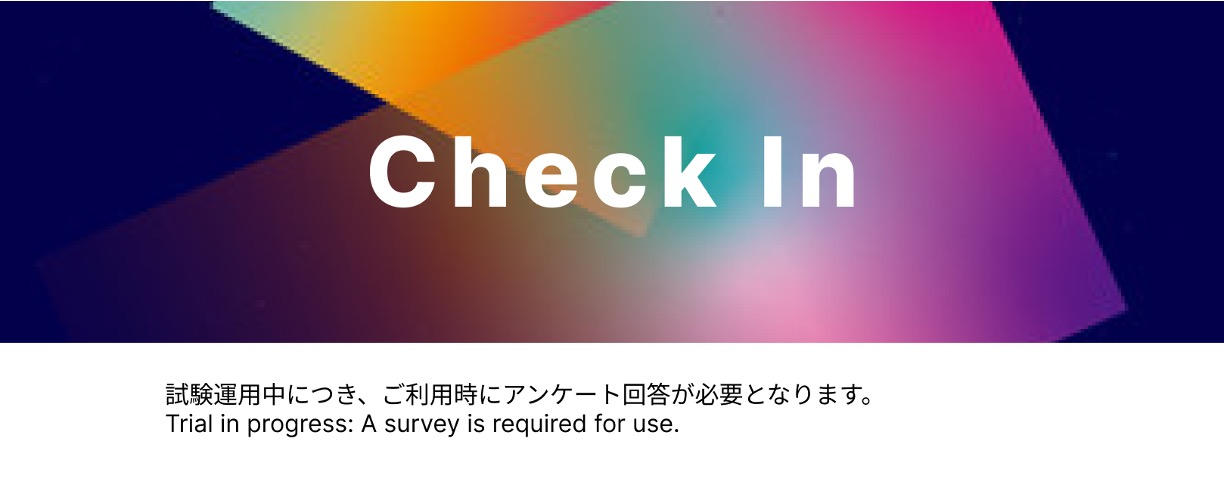
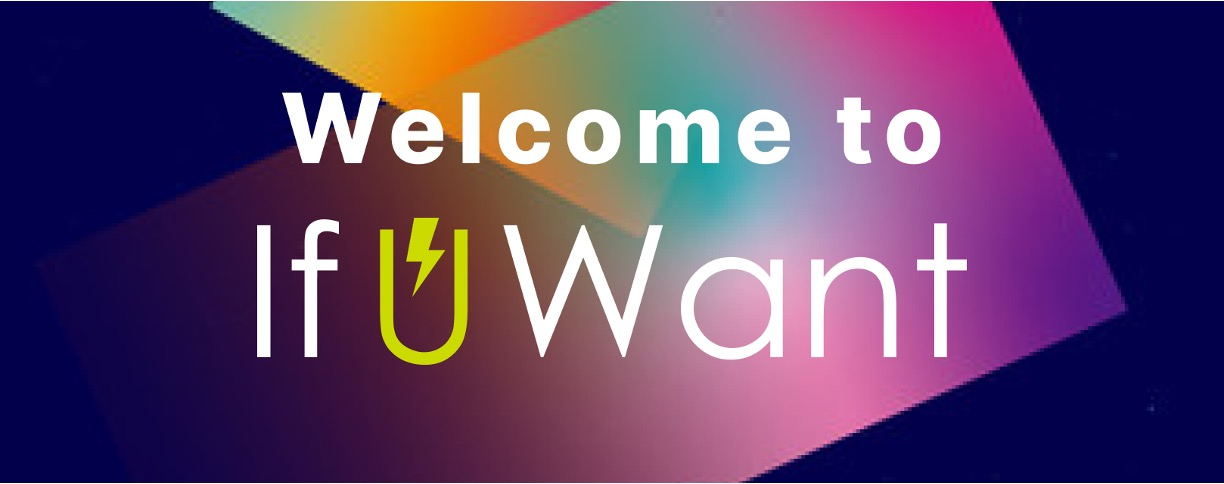
Add files via upload

diff --git a/smb01/smb01.html b/smb01/smb01.html
@@ -1,0 +1,37 @@
+<!DOCTYPE html>
+<html lang="ja">
+<head>
+    <meta charset="UTF-8">
+    <meta name="viewport" content="width=device-width, initial-scale=1.0">
+    <link rel="stylesheet" href="../common.css">
+    <title>If U Wantへようこそ</title>
+</head>
+<body>
+<img src="smb01_files/signin_header.jpeg" alt="サインインヘッダー" class="header-image"><br>
+<div>※試験運用中につき、ご利用時にアンケート回答が必要となります。</div>
+    <div>
+        <form method="GET" action="https://ap-northeast-1p83cuqdfm.auth.ap-northeast-1.amazoncognito.com/signup">
+            <input type="hidden" name="client_id" value="2phcvu943lq7rnv387oa6n8p7m">
+            <input type="hidden" name="lang" value="ja">
+            <input type="hidden" name="redirect_uri" value="https://3mj0ilijc3.execute-api.ap-northeast-1.amazonaws.com/prod/authority">
+            <input type="hidden" name="response_type" value="code">
+            <input type="hidden" name="scope" value="aws.cognito.signin.user.admin email openid phone">
+            <input type="submit" value="新規アカウント作成">
+        </form>
+        <br>
+        <p>すでにアカウントをお持ちの方、ゲストアカウントをお持ちの方は下記をクリックしてください。</p>
+
+        <a href="https://ap-northeast-1p83cuqdfm.auth.ap-northeast-1.amazoncognito.com/login?client_id=2phcvu943lq7rnv387oa6n8p7m&response_type=code&scope=aws.cognito.signin.user.admin+email+openid+phone&redirect_uri=https%3A%2F%2F3mj0ilijc3.execute-api.ap-northeast-1.amazonaws.com%2Fprod%2Fauthority&lang=ja">
+            <input type="button" value="ログイン">
+        </a>
+        <br><br>
+    </div>
+    <footer>
+        <a href="https://pes1-static.s3.ap-northeast-1.amazonaws.com/html/service.html">サービスについて</a>
+        <a href="https://pes1-static.s3.ap-northeast-1.amazonaws.com/html/privacy.html">プライバシーポリシー</a>
+        <a href="https://pes1-static.s3.ap-northeast-1.amazonaws.com/html/agreement.html">ご利用規約</a>
+        <a href="https://pes1-static.s3.ap-northeast-1.amazonaws.com/html/notation.html">特定商取引法に基づく表記</a>
+    </footer>
+<div><img src="../logo.svg"></div>
+</body>
+</html>

diff --git a/ofc01/ofc01.html b/ofc01/ofc01.html
@@ -1,0 +1,24 @@
+<!DOCTYPE html>
+<html lang="ja">
+<head>
+    <meta charset="UTF-8">
+    <meta name="viewport" content="width=device-width, initial-scale=1.0">
+    <link rel="stylesheet" href="../common.css">
+    <title>パスワード変更を完了しました</title>
+</head>
+<body style="font-family:sans-serif;" monica-id="ofpnmcalabcbjgholdjcjblkibolbppb" monica-version="7.8.0">
+<img src="./ofc01_files/signin_header.jpeg" class="header-image"><br>
+<div>
+パスワード変更を完了しました。<br>
+ご利用お待ちしております。<br>
+<br>
+<img src="./ofc01_files/footer.jpeg">
+</div>
+    <footer>
+        <a href="https://pes1-static.s3.ap-northeast-1.amazonaws.com/html/service.html">サービスについて</a>
+        <a href="https://pes1-static.s3.ap-northeast-1.amazonaws.com/html/privacy.html">プライバシーポリシー</a>
+        <a href="https://pes1-static.s3.ap-northeast-1.amazonaws.com/html/agreement.html">ご利用規約</a>
+        <a href="https://pes1-static.s3.ap-northeast-1.amazonaws.com/html/notation.html">特定商取引法に基づく表記</a>
+    </footer>
+<div><img src="../logo.svg"></div>
+</body></html>

diff --git a/smb02/smb02.html b/smb02/smb02.html
@@ -17,6 +17,7 @@
       </style></head>
 <body style="font-family:sans-serif;" monica-id="ofpnmcalabcbjgholdjcjblkibolbppb" monica-version="7.8.0">
 <img src="./smb02_files/settings_header.jpeg" class="header-image">
+<div>※試験運用中につき、ご利用時にアンケート回答が必要となります。</div>
 <center>
 <form name="start" method="POST" action="https://3mj0ilijc3.execute-api.ap-northeast-1.amazonaws.com/prod/settings" enctype="application/x-www-form-urlencoded">
 ご利用時間を選択してください。<br>

diff --git a/ofc03/ofc03.html b/ofc03/ofc03.html
@@ -39,4 +39,5 @@ body {
         <a href="https://pes1-static.s3.ap-northeast-1.amazonaws.com/html/agreement.html">ご利用規約</a>
         <a href="https://pes1-static.s3.ap-northeast-1.amazonaws.com/html/notation.html">特定商取引法に基づく表記</a>
     </footer>
+<div><img src="../logo.svg"></div>
 </body></html>

diff --git a/smb03/smb03.html b/smb03/smb03.html
@@ -39,4 +39,5 @@ body {
         <a href="https://pes1-static.s3.ap-northeast-1.amazonaws.com/html/agreement.html">ご利用規約</a>
         <a href="https://pes1-static.s3.ap-northeast-1.amazonaws.com/html/notation.html">特定商取引法に基づく表記</a>
     </footer>
+<div><img src="../logo.svg"></div>
 </body></html>
